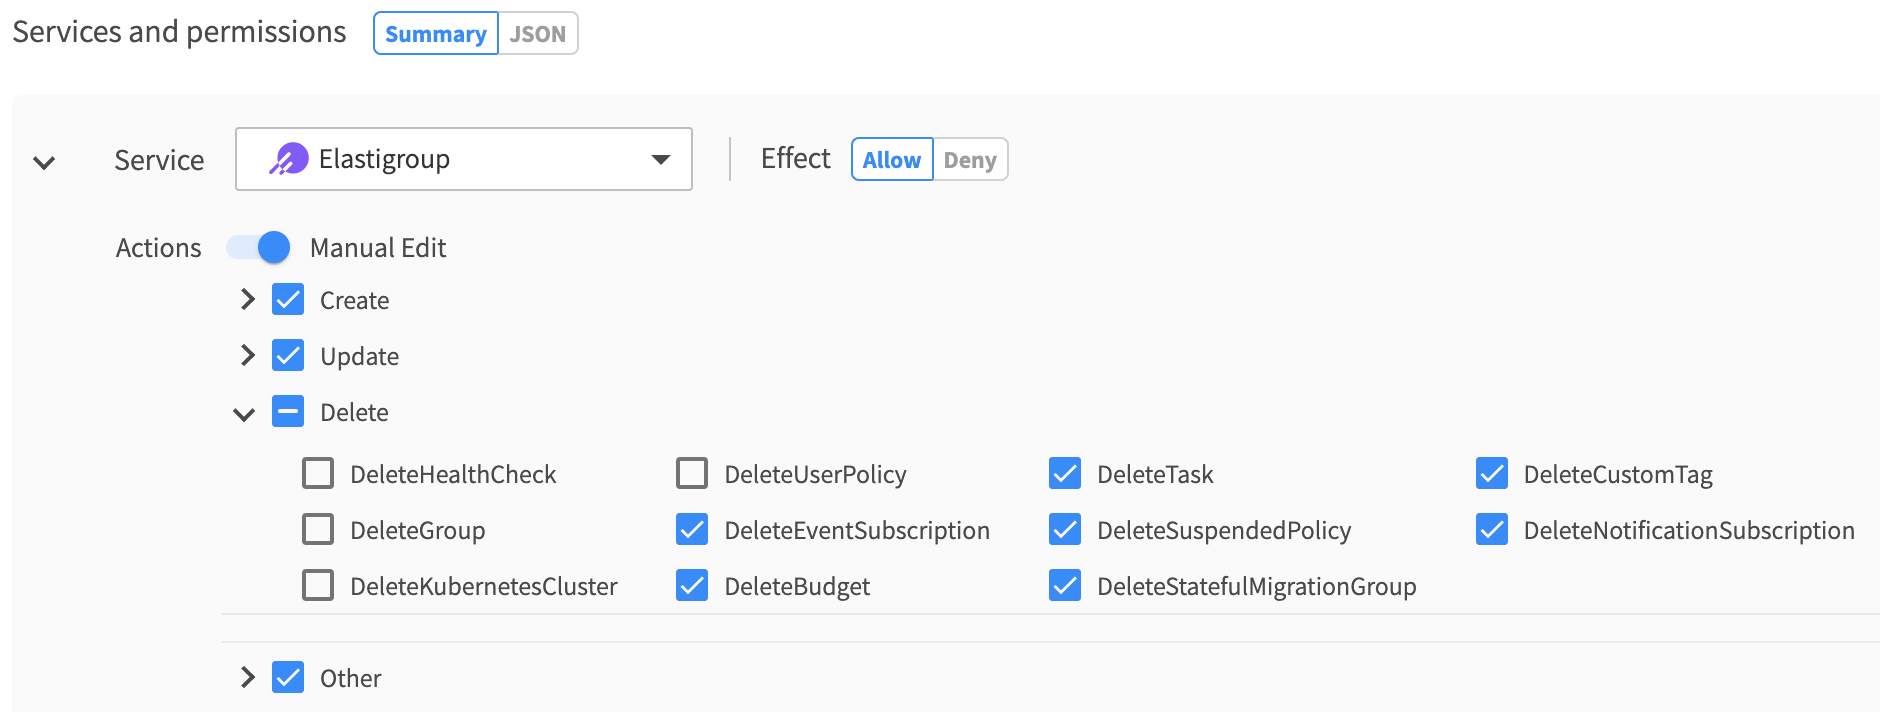
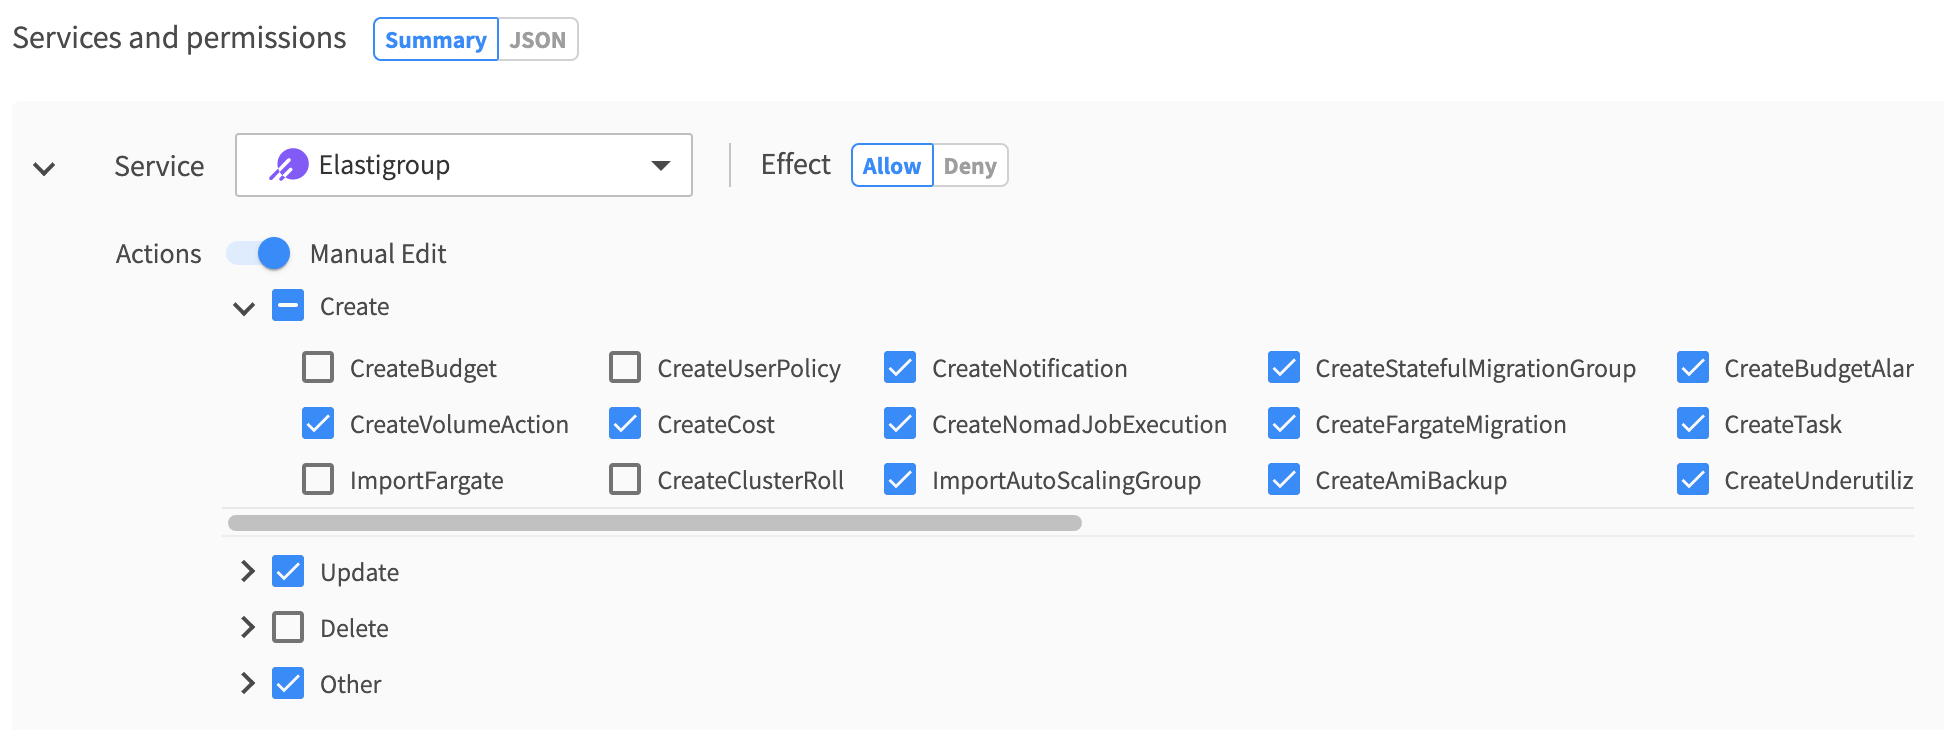
more fixes

diff --git a/src/docs/administration/policies/create-new-policy.md b/src/docs/administration/policies/create-new-policy.md
@@ -25,8 +25,6 @@ The Create New Policy wizard appears.
    - Account: These permissions relate to products and services that have resources at the account level. You will select the relevant accounts separately for each user or group once you attach the policy to them.
    - Organization: The permissions relate to products and services that have resources at the organization level.
 
-<img src="/administration/_media/create-policy-03.png" />
-
 Once a policy has been created, you will not be able to change the policy type.
 
 ### Service
@@ -35,13 +33,13 @@ A service can allow use of a particular product within the Spot Suite, such as O
 
 Choose the relevant service (e.g., Ocean, Elastigroup, or Setup) for the policy.
 
-<img src="/administration/_media/create-policy-04.png" />
+<img src="/administration/_media/create-policy-03.png" width="421" height="101" />
 
 ### Actions
 
 Once you choose a service, the service will appear below with its set of standard Create, Update, and Delete actions that are granted with the service.
 
-<img src="/administration/_media/create-policy-05.png" />
+<img src="/administration/_media/create-policy-04.png" width="406" height="166" />
 
 ### Manual Edit
 
@@ -53,7 +51,7 @@ Unmark any actions that will not be allowed.
 
 Below is an example of the individual Create actions for the Elastigroup service. Since the Delete action is unmarked, this policy will not allow the users to delete anything in Elastigroup.
 
-<img src="/administration/_media/create-policy-06.png" />
+<img src="/administration/_media/create-policy-05.png" />
 
 ### Effect
 
@@ -74,6 +72,8 @@ To remove a service and all of its corresponding actions, click the Trash icon o
 You also have the option to edit the JSON format. Do the following:
 1. By Services and permissions, click JSON.
 2. Click Edit Mode, and edit the file as required.
+
+<img src="/administration/_media/create-policy-06.png" />
 
 ## What’s New?
 

diff --git a/src/docs/administration/policies/README.md b/src/docs/administration/policies/README.md
@@ -8,7 +8,7 @@ A *permission* allows a user access to a Spot service (e.g., Ocean and Elastigro
 
 <img src="/administration/_media/policies-01.png" />
 
-How it Works
+## How it Works
 
 We make it really easy for you to create a new policy with the creation wizard. The wizard includes the simple steps summarized below. For the detailed procedures, see Create Policy.
 1. You define the most basic policy details such as the policy name and a brief description of the policy purpose.
@@ -32,6 +32,6 @@ Spot comes with a number of default policies. You can use these out of the box a
 - Organization and Account level permissions
   - Admin
 
-# What’s Next?
+## What’s Next?
 
 Learn how to [create a new permission policy](administration/policies/create-new-policy).
